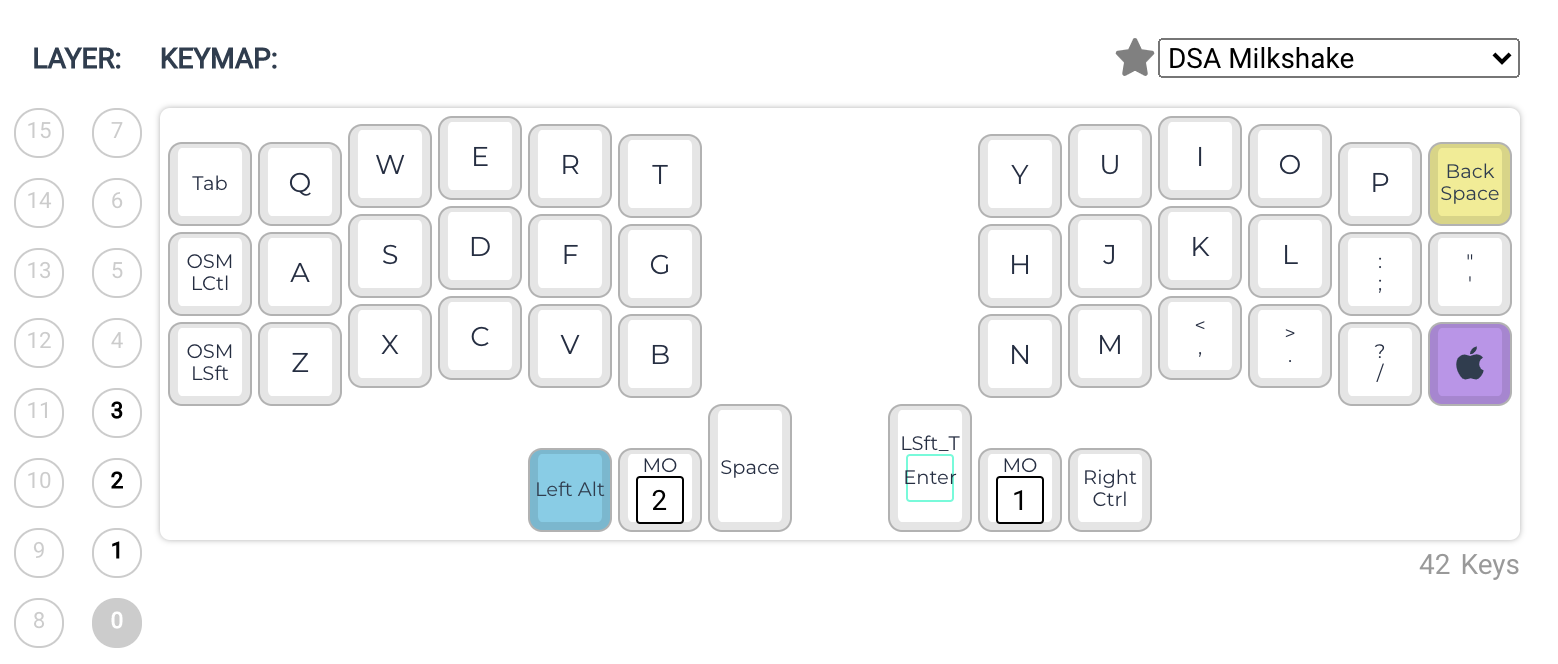
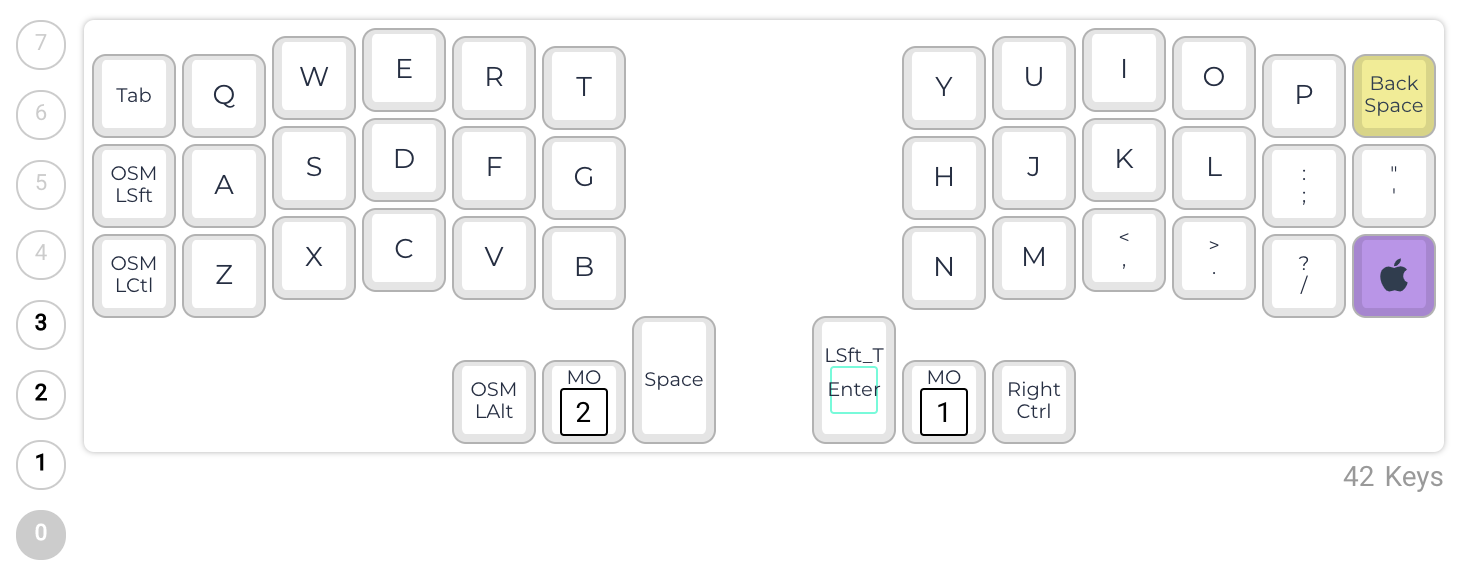
Updated keymaps, enabled tap / toggle

diff --git a/config.h b/config.h
@@ -32,8 +32,12 @@ along with this program.  If not, see <http://www.gnu.org/licenses/>.
 
 #define USE_SERIAL_PD2
 
-#define TAPPING_FORCE_HOLD
+// Breaks ONESHOT_TAP_TOGGLE
+// Should be fine, only used on space / enter.
+// #define TAPPING_FORCE_HOLD
 #define TAPPING_TERM 250
+
+#define ONESHOT_TAP_TOGGLE 2
 
 #define MK_3_SPEED
 #define MOUSEKEY_INTERVAL 16
